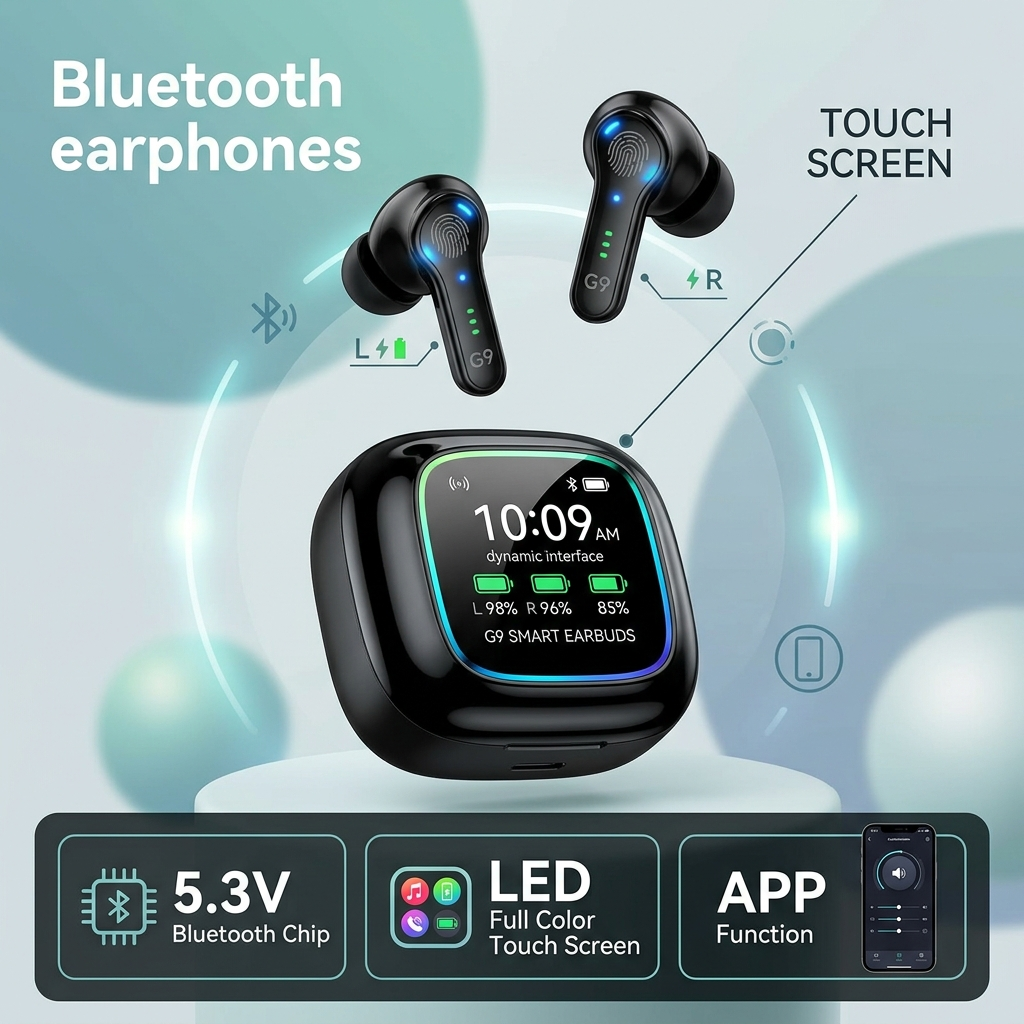
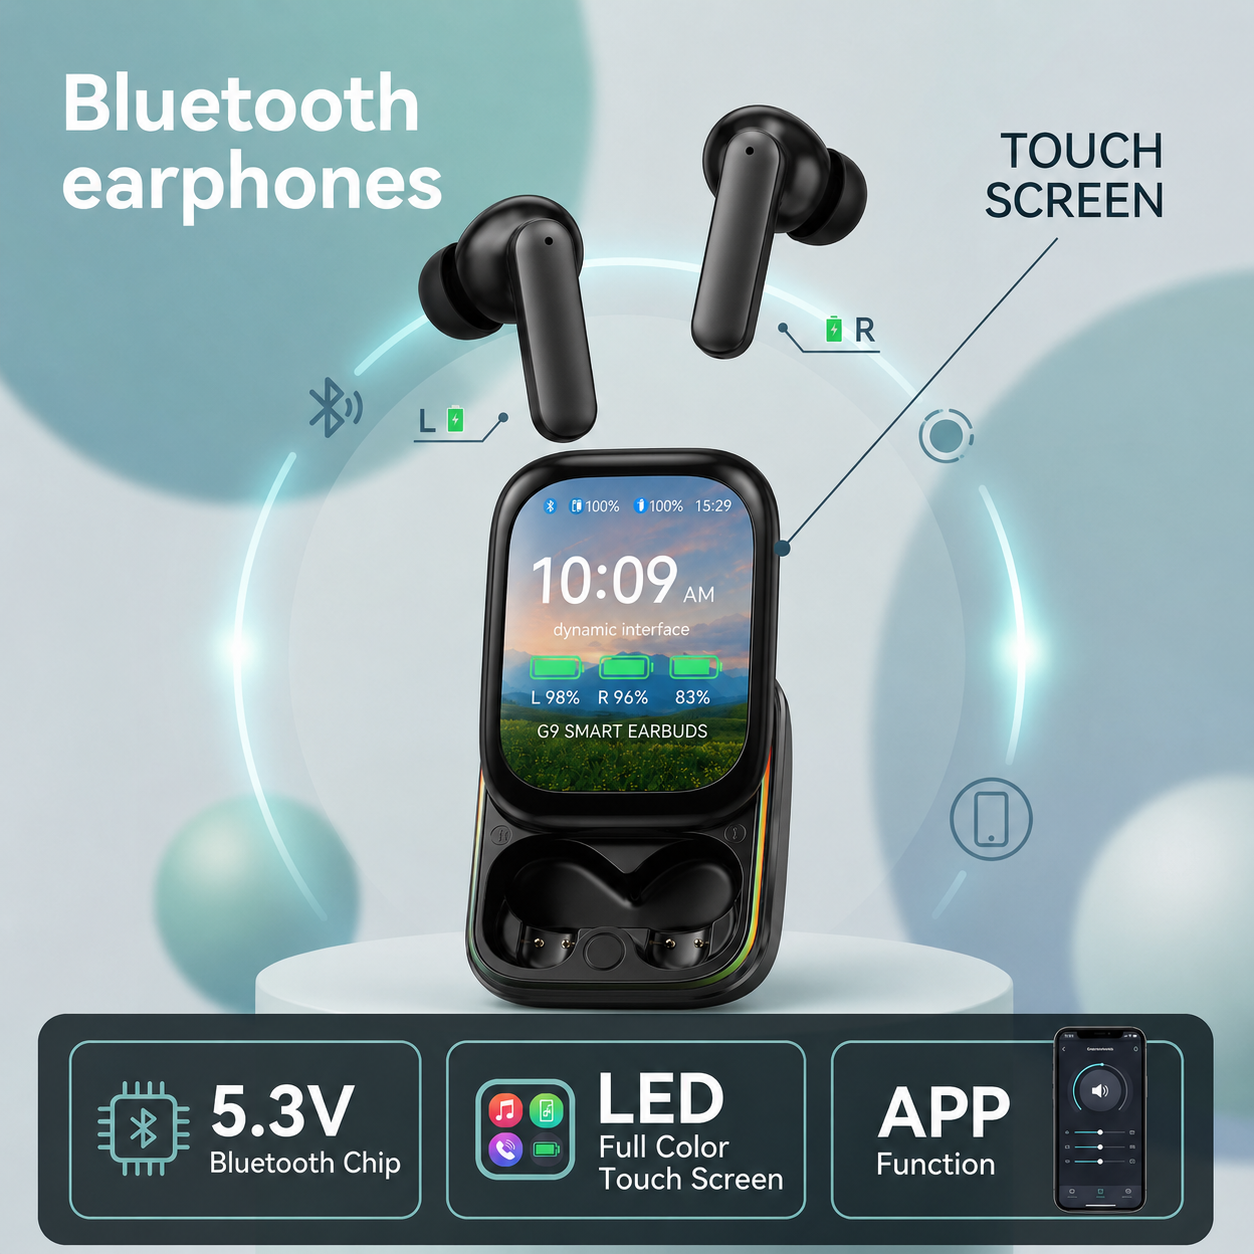
final code

diff --git a/src/assets-ref.ts b/src/assets-ref.ts
@@ -1,5 +1,6 @@
 // Product images
 // @ts-ignore
+import heroBgVideo from './assets/video/hero-bg.mp4';
 import g9Black from './assets/images/g9_black_earbuds_1782332624428.jpg';
 // @ts-ignore
 import g9White from './assets/images/g9_white_earbuds_1782332642302.jpg';
@@ -37,4 +38,4 @@ export const IMAGES = {
 };
 
 // Video background path
-export const HERO_VIDEO_PATH = '/assets/input_file_0.mp4';
+export const HERO_VIDEO_PATH = heroBgVideo;